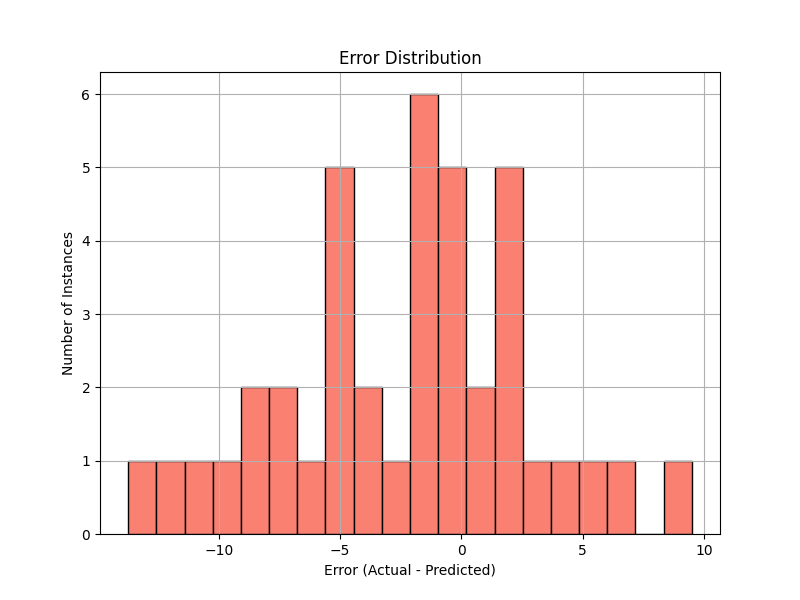
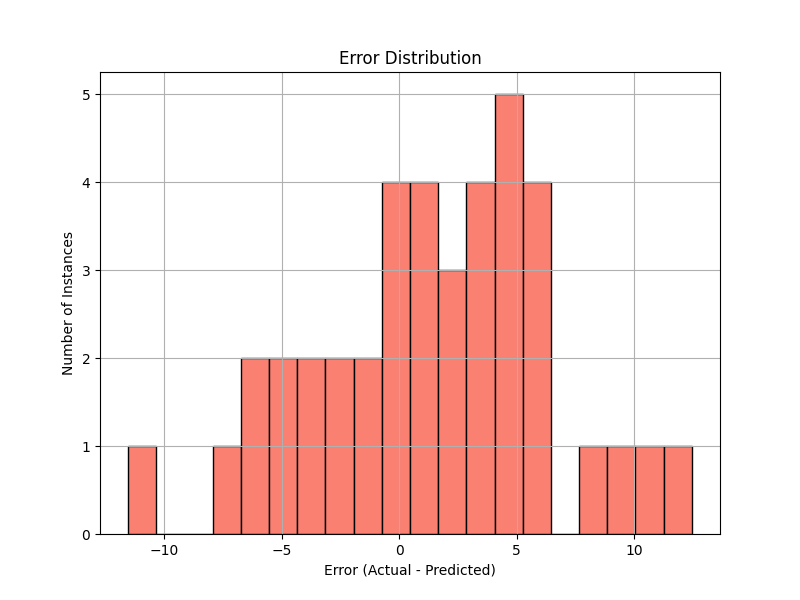
upd

diff --git a/app.py b/app.py
@@ -3,7 +3,7 @@ import joblib
 import numpy as np
 
 app = Flask(__name__)
-model = joblib.load("model/predictor5.pkl")
+model = joblib.load("model/predictor6.pkl")
 
 def safe_int(value, default=0):
     try:
@@ -56,6 +56,7 @@ def predict():
 
         input_data = np.array([[sleep, anxiety, burnout, attended, homework, hours_studied, complexity]])
         prediction = model.predict(input_data)[0]
+        prediction = min(max(prediction, 0), 100)
 
         return render_template("index.html", prediction_text=f"Predicted exam score: {prediction:.2f}%")
 

diff --git a/model/training.py b/model/training.py
@@ -7,7 +7,7 @@ from sklearn.metrics import mean_absolute_error, r2_score
 import joblib
 import os
 
-data_path = os.path.join('..', 'assets', 'exam_data5.csv')
+data_path = os.path.join('..', 'assets', 'exam_data6.csv')
 df = pd.read_csv(data_path)
 
 X = df[[
@@ -36,7 +36,7 @@ with open("results/metrics.txt", "w") as f:
     f.write(f"R² Score: {r2:.2f}\n")
 
 
-model_path = os.path.join('predictor5.pkl')
+model_path = os.path.join('predictor6.pkl')
 joblib.dump(model, model_path)
 
 print("Saved at:", model_path)
